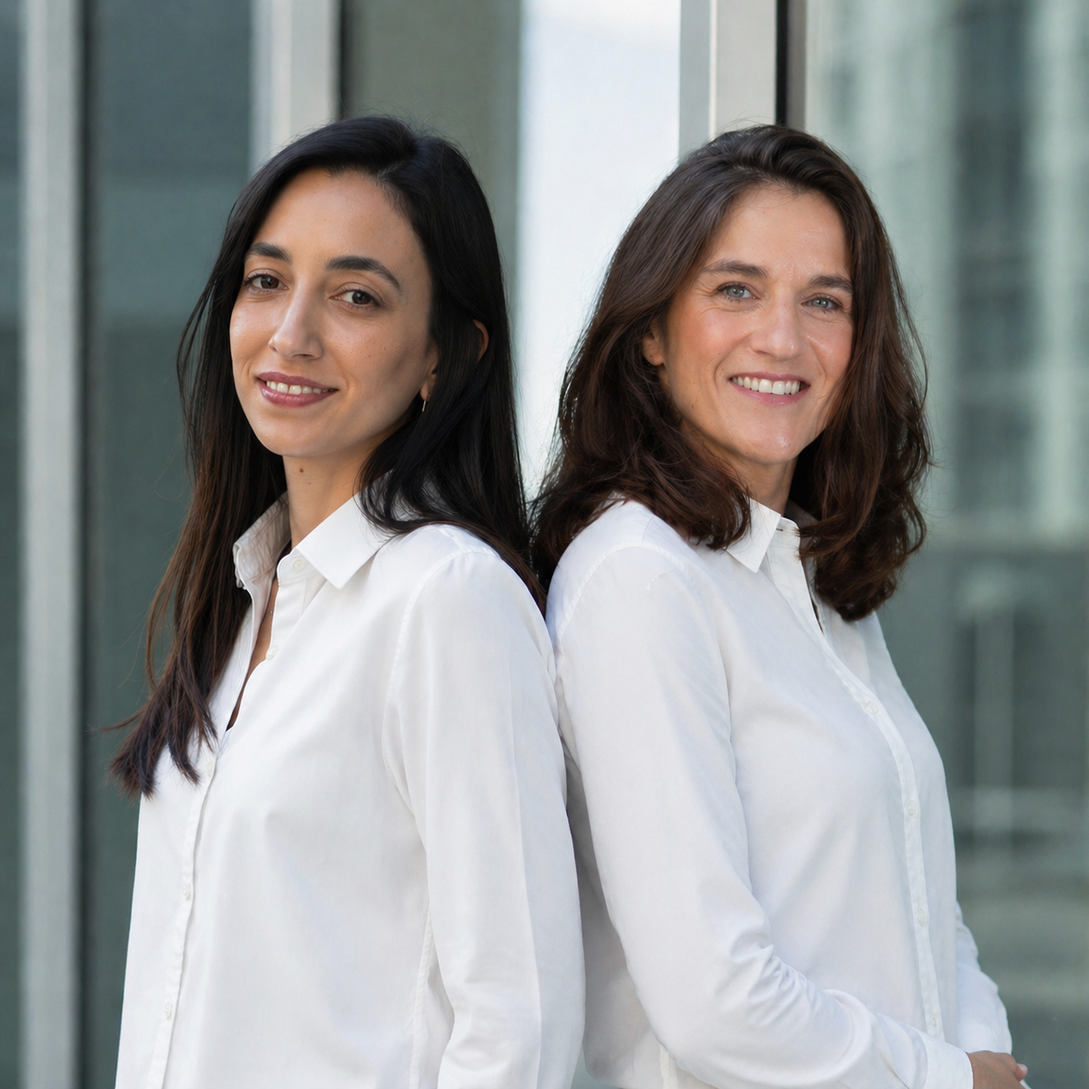
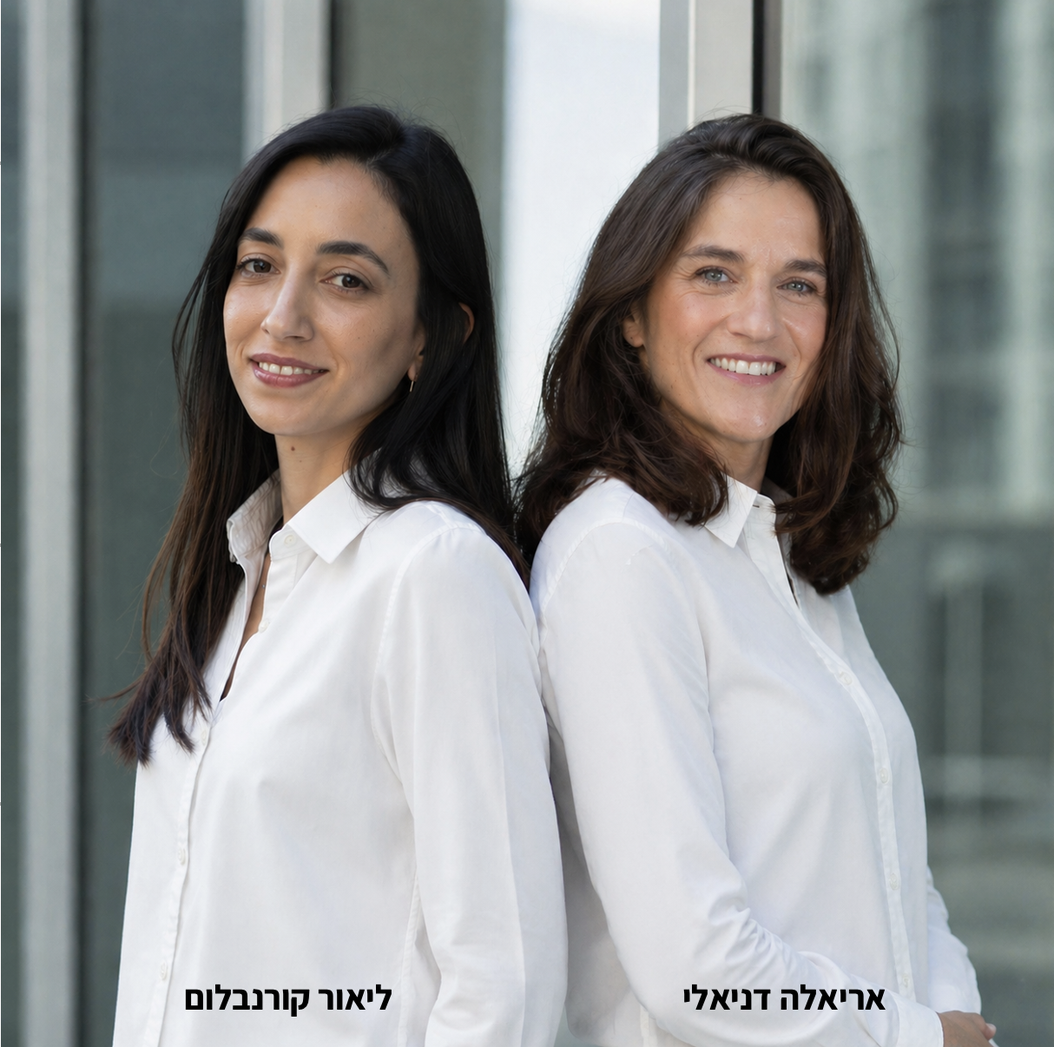
Simplify consulting section on homepage, add ai-experience.html detail page with process and team

diff --git a/ai-experience.html b/ai-experience.html
@@ -1,0 +1,248 @@
+<!DOCTYPE html>
+<html lang="he" dir="rtl">
+<head>
+<meta charset="UTF-8">
+<!-- Google tag (gtag.js) -->
+<script async src="https://www.googletagmanager.com/gtag/js?id=G-WF8EV8KE0R"></script>
+<script>
+  window.dataLayer = window.dataLayer || [];
+  function gtag(){dataLayer.push(arguments);}
+  gtag('js', new Date());
+  gtag('config', 'G-WF8EV8KE0R');
+</script>
+<meta name="viewport" content="width=device-width, initial-scale=1.0">
+<title>THE AI EXPERIENCE — שדרוג חווית לקוח ועובד | אריאלה דניאלי</title>
+<meta name="description" content="שירות ייעוצי לשדרוג חווית הלקוח והעובד באמצעות AI Agents — אפיון, פיתוח והטמעה.">
+<link rel="preconnect" href="https://fonts.googleapis.com">
+<link rel="preconnect" href="https://fonts.gstatic.com" crossorigin>
+<link href="https://fonts.googleapis.com/css2?family=Assistant:wght@300;400;700;800&display=swap" rel="stylesheet">
+<style>
+*,*::before,*::after{margin:0;padding:0;box-sizing:border-box}
+:root{
+  --bg:#080810;--bg-card:#0d0d1a;--bg-card2:#111128;
+  --pink:#FF2D9B;--orange:#FF8C00;--green:#25D366;
+  --white:#ffffff;--white60:rgba(255,255,255,.7);--white08:rgba(255,255,255,0.08);
+  --font:'Assistant',sans-serif;
+  --nav-h:72px;
+}
+html{scroll-behavior:smooth;overflow-x:hidden}
+body{font-family:var(--font);background:var(--bg);color:var(--white);direction:rtl;line-height:1.7;overflow-x:hidden}
+a{color:inherit;text-decoration:none}
+.grad{background:linear-gradient(135deg,#FF2D9B,#FF8C00);-webkit-background-clip:text;-webkit-text-fill-color:transparent;background-clip:text}
+.reveal{opacity:0;transform:translateY(50px);transition:opacity .8s cubic-bezier(.22,1,.36,1),transform .8s cubic-bezier(.22,1,.36,1)}
+.reveal.visible{opacity:1;transform:translateY(0)}
+.nav{position:fixed;top:0;right:0;left:0;z-index:1000;height:var(--nav-h);display:flex;align-items:center;justify-content:space-between;padding:0 clamp(20px,4vw,60px);transition:background .4s,box-shadow .4s}
+.nav.scrolled{background:rgba(8,8,16,.92);backdrop-filter:blur(18px);-webkit-backdrop-filter:blur(18px);box-shadow:0 2px 30px rgba(0,0,0,.4)}
+.nav-back{display:inline-flex;align-items:center;gap:8px;color:var(--white60);font-size:.9rem;font-weight:600;transition:color .3s}
+.nav-back:hover{color:#fff}
+.nav-back svg{transform:rotate(180deg)}
+.btn-wa{background:var(--green);color:var(--white);padding:14px 32px;border-radius:8px;font-weight:700;font-size:1rem;display:inline-flex;align-items:center;gap:8px;transition:transform .3s,box-shadow .3s;border:none;cursor:pointer}
+.btn-wa:hover{transform:scale(1.06);box-shadow:0 6px 28px rgba(37,211,102,.35)}
+.btn-outline{border:2px solid var(--pink);color:var(--pink);padding:12px 32px;border-radius:8px;font-weight:700;font-size:1rem;transition:all .3s;background:transparent;display:inline-block}
+.btn-outline:hover{background:var(--pink);color:#080810;box-shadow:0 0 18px rgba(255,45,155,.5);transform:scale(1.05)}
+
+/* HERO */
+.hero{min-height:75vh;display:flex;align-items:center;justify-content:center;text-align:center;position:relative;overflow:hidden;padding:calc(var(--nav-h) + 60px) clamp(20px,6vw,80px) 80px}
+.hero-grid{position:absolute;inset:0;background-image:radial-gradient(rgba(255,255,255,.05) 1px,transparent 1px);background-size:32px 32px;animation:gridFloat 20s linear infinite}
+@keyframes gridFloat{0%{background-position:0 0}100%{background-position:32px 32px}}
+.hero-glow{position:absolute;width:600px;height:600px;border-radius:50%;background:radial-gradient(circle,rgba(255,45,155,.12),transparent 70%);top:0;left:50%;transform:translateX(-50%);filter:blur(80px);pointer-events:none}
+.hero-content{position:relative;z-index:2;max-width:820px}
+.hero-badge{display:inline-block;background:rgba(255,45,155,.12);border:1px solid rgba(255,45,155,.3);color:var(--pink);padding:6px 20px;border-radius:50px;font-size:.85rem;font-weight:700;margin-bottom:24px;letter-spacing:1px}
+.hero-title{font-size:clamp(2.4rem,5.5vw,4.2rem);font-weight:900;line-height:1.15;margin-bottom:24px}
+.hero-sub{font-size:clamp(1rem,2vw,1.25rem);color:var(--white60);font-weight:300;margin-bottom:40px;max-width:650px;margin-left:auto;margin-right:auto}
+.stagger{opacity:0;transform:translateY(40px);animation:staggerIn .9s cubic-bezier(.22,1,.36,1) forwards}
+.stagger:nth-child(1){animation-delay:.2s}
+.stagger:nth-child(2){animation-delay:.4s}
+.stagger:nth-child(3){animation-delay:.6s}
+.stagger:nth-child(4){animation-delay:.8s}
+@keyframes staggerIn{to{opacity:1;transform:translateY(0)}}
+
+/* SECTIONS */
+.section{padding:70px clamp(20px,6vw,80px)}
+.container{max-width:960px;margin:0 auto}
+.section-title{font-size:clamp(1.8rem,3.5vw,2.6rem);font-weight:900;margin-bottom:32px}
+.section-sub{color:var(--white60);font-size:1.05rem;line-height:1.8;margin-bottom:40px;max-width:720px}
+
+/* ABOUT CARD */
+.about-card{background:var(--bg-card);border:1px solid var(--white08);border-radius:20px;padding:clamp(30px,5vw,50px);position:relative;overflow:hidden}
+.about-card::before{content:'';position:absolute;top:0;right:0;width:100%;height:3px;background:linear-gradient(90deg,var(--pink),var(--orange))}
+.about-card p{color:var(--white60);font-size:1.05rem;line-height:1.9}
+
+/* STEPS */
+.steps-wrap{display:grid;grid-template-columns:repeat(auto-fit,minmax(260px,1fr));gap:24px;margin-top:16px}
+.step-card{background:var(--bg-card);border:1px solid var(--white08);border-radius:16px;padding:36px 32px;transition:transform .3s,border-color .3s;position:relative;overflow:hidden}
+.step-card::before{content:'';position:absolute;top:0;right:0;width:100%;height:2px;background:linear-gradient(90deg,var(--pink),var(--orange));opacity:0;transition:opacity .3s}
+.step-card:hover{transform:translateY(-4px);border-color:rgba(255,45,155,.3)}
+.step-card:hover::before{opacity:1}
+.step-num{font-size:2.8rem;font-weight:900;background:linear-gradient(135deg,#FF2D9B,#FF8C00);-webkit-background-clip:text;-webkit-text-fill-color:transparent;background-clip:text;margin-bottom:14px;line-height:1}
+.step-card h4{font-size:1.15rem;font-weight:700;margin-bottom:10px;color:#fff}
+.step-card p{color:var(--white60);font-size:.95rem;line-height:1.7}
+.step-card ul{list-style:none;margin-top:10px}
+.step-card ul li{padding:6px 0;color:var(--white60);font-size:.93rem;display:flex;align-items:flex-start;gap:10px}
+.step-card ul li::before{content:'';width:6px;height:6px;border-radius:50%;background:var(--pink);flex-shrink:0;margin-top:8px}
+
+/* TEAM */
+.team-grid{display:grid;grid-template-columns:repeat(auto-fit,minmax(300px,1fr));gap:32px;margin-top:16px}
+.team-card{background:var(--bg-card);border:1px solid var(--white08);border-radius:20px;padding:36px 32px}
+.team-card h4{font-size:1.25rem;font-weight:800;margin-bottom:6px;color:#fff}
+.team-card .team-role{color:var(--pink);font-size:.9rem;font-weight:600;margin-bottom:16px;display:block}
+.team-card p{color:var(--white60);font-size:.95rem;line-height:1.8}
+
+/* CTA */
+.cta-section{text-align:center}
+.cta-section .section-title{margin-bottom:16px}
+.cta-section p{color:var(--white60);font-size:1.1rem;margin-bottom:32px}
+
+footer{text-align:center;padding:40px 20px;border-top:1px solid var(--white08);color:var(--white60);font-size:.85rem}
+.footer-social{display:flex;justify-content:center;gap:16px;margin-top:12px}
+.footer-social a{color:var(--white60);transition:color .3s}
+.footer-social a:hover{color:var(--white)}
+
+.back-top{position:fixed;bottom:24px;left:24px;width:44px;height:44px;border-radius:50%;background:var(--bg-card);border:1px solid var(--white08);display:flex;align-items:center;justify-content:center;cursor:pointer;transition:transform .3s,background .3s;z-index:100}
+.back-top:hover{transform:translateY(-3px);background:var(--pink)}
+
+/* WhatsApp float */
+.wa-float{position:fixed;bottom:24px;right:24px;width:56px;height:56px;background:var(--green);border-radius:50%;display:flex;align-items:center;justify-content:center;box-shadow:0 4px 20px rgba(37,211,102,.4);z-index:999;transition:transform .3s}
+.wa-float:hover{transform:scale(1.1)}
+
+@media(max-width:768px){
+  .hero{min-height:auto;padding-bottom:60px}
+  .steps-wrap{grid-template-columns:1fr}
+  .team-grid{grid-template-columns:1fr}
+}
+</style>
+</head>
+<body>
+
+<!-- NAVBAR -->
+<nav class="nav" id="nav">
+  <a href="index.html" class="nav-back">
+    <svg width="16" height="16" viewBox="0 0 24 24" fill="none" stroke="currentColor" stroke-width="2"><path d="M5 12h14M12 5l7 7-7 7"/></svg>
+    חזרה לאתר
+  </a>
+  <a href="https://wa.me/972523124326" class="btn-wa" style="padding:10px 20px;font-size:.9rem">
+    <svg width="16" height="16" viewBox="0 0 24 24" fill="currentColor"><path d="M17.472 14.382c-.297-.149-1.758-.867-2.03-.967-.273-.099-.471-.148-.67.15-.197.297-.767.966-.94 1.164-.173.199-.347.223-.644.075-.297-.15-1.255-.463-2.39-1.475-.883-.788-1.48-1.761-1.653-2.059-.173-.297-.018-.458.13-.606.134-.133.298-.347.446-.52.149-.174.198-.298.298-.497.099-.198.05-.371-.025-.52-.075-.149-.669-1.612-.916-2.207-.242-.579-.487-.5-.669-.51-.173-.008-.371-.01-.57-.01-.198 0-.52.074-.792.372-.272.297-1.04 1.016-1.04 2.479 0 1.462 1.065 2.875 1.213 3.074.149.198 2.096 3.2 5.077 4.487.709.306 1.262.489 1.694.625.712.227 1.36.195 1.871.118.571-.085 1.758-.719 2.006-1.413.248-.694.248-1.289.173-1.413-.074-.124-.272-.198-.57-.347z"/><path d="M12 0C5.373 0 0 5.373 0 12c0 2.11.546 4.093 1.504 5.818L0 24l6.335-1.66A11.95 11.95 0 0012 24c6.627 0 12-5.373 12-12S18.627 0 12 0zm0 21.82a9.8 9.8 0 01-5.006-1.37l-.36-.213-3.722.976.993-3.63-.235-.374A9.81 9.81 0 012.18 12C2.18 6.58 6.58 2.18 12 2.18S21.82 6.58 21.82 12 17.42 21.82 12 21.82z"/></svg>
+    בואו נדבר
+  </a>
+</nav>
+
+<!-- HERO -->
+<section class="hero">
+  <div class="hero-grid"></div>
+  <div class="hero-glow"></div>
+  <div class="hero-content">
+    <div class="hero-badge stagger">שירות</div>
+    <h1 class="hero-title stagger">THE AI EXPERIENCE<br><span class="grad">שדרוג חווית לקוח ועובד</span></h1>
+    <p class="hero-sub stagger">פתרונות מבוססי AI Agents לחווית לקוח ועובד מדורגת יותר — החל מאפיון ועד הטמעה מלאה בשטח</p>
+    <div class="stagger">
+      <a href="https://wa.me/972523124326" class="btn-wa" style="margin:0 auto">
+        <svg width="18" height="18" viewBox="0 0 24 24" fill="currentColor"><path d="M17.472 14.382c-.297-.149-1.758-.867-2.03-.967-.273-.099-.471-.148-.67.15-.197.297-.767.966-.94 1.164-.173.199-.347.223-.644.075-.297-.15-1.255-.463-2.39-1.475-.883-.788-1.48-1.761-1.653-2.059-.173-.297-.018-.458.13-.606.134-.133.298-.347.446-.52.149-.174.198-.298.298-.497.099-.198.05-.371-.025-.52-.075-.149-.669-1.612-.916-2.207-.242-.579-.487-.5-.669-.51-.173-.008-.371-.01-.57-.01-.198 0-.52.074-.792.372-.272.297-1.04 1.016-1.04 2.479 0 1.462 1.065 2.875 1.213 3.074.149.198 2.096 3.2 5.077 4.487.709.306 1.262.489 1.694.625.712.227 1.36.195 1.871.118.571-.085 1.758-.719 2.006-1.413.248-.694.248-1.289.173-1.413-.074-.124-.272-.198-.57-.347z"/><path d="M12 0C5.373 0 0 5.373 0 12c0 2.11.546 4.093 1.504 5.818L0 24l6.335-1.66A11.95 11.95 0 0012 24c6.627 0 12-5.373 12-12S18.627 0 12 0zm0 21.82a9.8 9.8 0 01-5.006-1.37l-.36-.213-3.722.976.993-3.63-.235-.374A9.81 9.81 0 012.18 12C2.18 6.58 6.58 2.18 12 2.18S21.82 6.58 21.82 12 17.42 21.82 12 21.82z"/></svg>
+        שלחו הודעה בוואטסאפ
+      </a>
+    </div>
+  </div>
+</section>
+
+<!-- ABOUT -->
+<section class="section" style="background:rgba(255,255,255,.02)">
+  <div class="container">
+    <h2 class="section-title grad reveal">אודות השירות</h2>
+    <div class="about-card reveal">
+      <p>ארגונים רבים יודעים שבינה מלאכותית יכולה לשנות את אופן העבודה שלהם — אבל לא יודעים מאיפה להתחיל, ומה בדיוק כדאי לשנות.</p>
+      <br>
+      <p>THE AI EXPERIENCE הוא שירות ייעוצי המתמקד בפתרונות מבוססי סוכנים (AI Agents) — הדור הבא של אוטומציה חכמה. אנחנו עובדות עם ארגונים על שני מישורים במקביל: החוויה החיצונית — המוצרים והשירותים שהארגון מספק ללקוחותיו, והיכולת הפנימית — תהליכי העבודה של הצוותים מבפנים.</p>
+      <br>
+      <p>בשני המקרים, אנחנו מזהות היכן סוכני AI יכולים להחליף עבודה ידנית, לשפר את איכות השירות ולייצר ערך עסקי מדיד — הן עבור הלקוח הקצה והן עבור העובדים בשטח.</p>
+    </div>
+  </div>
+</section>
+
+<!-- PROCESS -->
+<section class="section">
+  <div class="container">
+    <h2 class="section-title grad reveal">תהליך העבודה</h2>
+    <div class="steps-wrap">
+      <div class="step-card reveal">
+        <div class="step-num">01</div>
+        <h4>אפיון וזיהוי הזדמנויות</h4>
+        <p>נבחן יחד את המוצרים, השירותים ותהליכי העבודה הקיימים בארגון. נאתר את נקודות הכאב — המקומות שבהם זמן, כסף ואנרגיה הולכים לאיבוד — ונגדיר בדיוק איפה סוכני AI יכולים לייצר את ההשפעה הגדולה ביותר.</p>
+      </div>
+      <div class="step-card reveal">
+        <div class="step-num">02</div>
+        <h4>פיתוח פתרונות מבוססי AI Agents</h4>
+        <ul>
+          <li>סקירת עולם — ניתוח מוצרים ושירותים דומים שכבר משלבים סוכני AI בתעשייה</li>
+          <li>Ideation — גיבוש רעיונות ופתרונות יצירתיים המותאמים לארגון הספציפי</li>
+          <li>עיצוב מסע חדש — בניית מסע לקוח ו/או עובד חדש הכולל שכבת AI Agents פעילה</li>
+        </ul>
+      </div>
+      <div class="step-card reveal">
+        <div class="step-num">03</div>
+        <h4>הטמעה, ליווי ומדידה</h4>
+        <p>ליווי מלא של תהליך ההטמעה הטכנולוגית, הגדרת יעדים ו-KPIs להצלחה — כדי להבטיח שהשינוי לא נשאר על הנייר אלא מייצר תוצאות מדידות לאורך זמן.</p>
+      </div>
+    </div>
+  </div>
+</section>
+
+<!-- WHO WE ARE -->
+<section class="section" style="background:rgba(255,255,255,.02)">
+  <div class="container">
+    <h2 class="section-title grad reveal">מי אנחנו</h2>
+    <div class="team-grid">
+      <div class="team-card reveal">
+        <h4>ליאור קורנבלום</h4>
+        <span class="team-role">מייסדת ומנכ"לית AIforAll</span>
+        <p>15 שנות ניסיון בבניית מוצרי AI והובלת תהליכי הטמעה בארגונים. לשעבר סמנכ"לית מוצר ב-AI Startup ובעלת ניסיון רחב עם ארגונים פיננסיים גדולים. מרצה בטכניון, מנטורית של Google for Startups ו-LinkedIn Top AI Voice.</p>
+        <br>
+        <p>ליאור עוזרת לארגונים לעבור מסקרנות לאסטרטגיה אמיתית — ומ-AI כנושא שיחה ל-AI כיכולת ארגונית.</p>
+      </div>
+      <div class="team-card reveal">
+        <h4>אריאלה דניאלי</h4>
+        <span class="team-role">יועצת חדשנות ומרצה</span>
+        <p>יועצת בתחומי בינה מלאכותית, חווית לקוח ומיתוג אישי בארגונים. כמנהלת החדשנות של קבוצת עזריאלי וכמנהלת הדיגיטל של תנובה, הובילה מהלכים רחבי היקף שביססו חיבור בין חשיבה עסקית, טכנולוגיה וצרכי לקוח.</p>
+        <br>
+        <p>מתנדבת בעמותת ASUR שבה מלמדת נשות קבע כיצד לבנות מיתוג אישי באמצעות GenAI על מנת להשתלב בשוק העבודה.</p>
+      </div>
+    </div>
+  </div>
+</section>
+
+<!-- CTA -->
+<section class="section cta-section">
+  <div class="container">
+    <h2 class="section-title grad reveal">רוצים לשמוע עוד?</h2>
+    <p class="reveal">דברו איתנו ונתחיל לחשוב יחד על הצעד הבא</p>
+    <a href="https://wa.me/972523124326" class="btn-wa reveal">
+      <svg width="18" height="18" viewBox="0 0 24 24" fill="currentColor"><path d="M17.472 14.382c-.297-.149-1.758-.867-2.03-.967-.273-.099-.471-.148-.67.15-.197.297-.767.966-.94 1.164-.173.199-.347.223-.644.075-.297-.15-1.255-.463-2.39-1.475-.883-.788-1.48-1.761-1.653-2.059-.173-.297-.018-.458.13-.606.134-.133.298-.347.446-.52.149-.174.198-.298.298-.497.099-.198.05-.371-.025-.52-.075-.149-.669-1.612-.916-2.207-.242-.579-.487-.5-.669-.51-.173-.008-.371-.01-.57-.01-.198 0-.52.074-.792.372-.272.297-1.04 1.016-1.04 2.479 0 1.462 1.065 2.875 1.213 3.074.149.198 2.096 3.2 5.077 4.487.709.306 1.262.489 1.694.625.712.227 1.36.195 1.871.118.571-.085 1.758-.719 2.006-1.413.248-.694.248-1.289.173-1.413-.074-.124-.272-.198-.57-.347z"/><path d="M12 0C5.373 0 0 5.373 0 12c0 2.11.546 4.093 1.504 5.818L0 24l6.335-1.66A11.95 11.95 0 0012 24c6.627 0 12-5.373 12-12S18.627 0 12 0zm0 21.82a9.8 9.8 0 01-5.006-1.37l-.36-.213-3.722.976.993-3.63-.235-.374A9.81 9.81 0 012.18 12C2.18 6.58 6.58 2.18 12 2.18S21.82 6.58 21.82 12 17.42 21.82 12 21.82z"/></svg>
+      שלחו הודעה בוואטסאפ
+    </a>
+  </div>
+</section>
+
+<!-- FOOTER -->
+<footer>
+  <p>&copy; 2026 אריאלה דניאלי. כל הזכויות שמורות.</p>
+  <div class="footer-social">
+    <a href="https://www.instagram.com/ariellita" target="_blank" aria-label="Instagram"><svg viewBox="0 0 24 24" fill="currentColor" width="20" height="20"><path d="M12 2.163c3.204 0 3.584.012 4.85.07 3.252.148 4.771 1.691 4.919 4.919.058 1.265.069 1.645.069 4.849 0 3.205-.012 3.584-.069 4.849-.149 3.225-1.664 4.771-4.919 4.919-1.266.058-1.644.07-4.85.07-3.204 0-3.584-.012-4.849-.07-3.26-.149-4.771-1.699-4.919-4.92-.058-1.265-.07-1.644-.07-4.849 0-3.204.013-3.583.07-4.849.149-3.227 1.664-4.771 4.919-4.919 1.266-.057 1.645-.069 4.849-.069zM12 0C8.741 0 8.333.014 7.053.072 2.695.272.273 2.69.073 7.052.014 8.333 0 8.741 0 12c0 3.259.014 3.668.072 4.948.2 4.358 2.618 6.78 6.98 6.98C8.333 23.986 8.741 24 12 24c3.259 0 3.668-.014 4.948-.072 4.354-.2 6.782-2.618 6.979-6.98.059-1.28.073-1.689.073-4.948 0-3.259-.014-3.667-.072-4.947-.196-4.354-2.617-6.78-6.979-6.98C15.668.014 15.259 0 12 0zm0 5.838a6.162 6.162 0 100 12.324 6.162 6.162 0 000-12.324zM12 16a4 4 0 110-8 4 4 0 010 8zm6.406-11.845a1.44 1.44 0 100 2.881 1.44 1.44 0 000-2.881z"/></svg></a>
+    <a href="https://www.linkedin.com/in/ariella-danielli" target="_blank" aria-label="LinkedIn"><svg viewBox="0 0 24 24" fill="currentColor" width="20" height="20"><path d="M20.447 20.452h-3.554v-5.569c0-1.328-.027-3.037-1.852-3.037-1.853 0-2.136 1.445-2.136 2.939v5.667H9.351V9h3.414v1.561h.046c.477-.9 1.637-1.85 3.37-1.85 3.601 0 4.267 2.37 4.267 5.455v6.286zM5.337 7.433a2.062 2.062 0 01-2.063-2.065 2.064 2.064 0 112.063 2.065zm1.782 13.019H3.555V9h3.564v11.452zM22.225 0H1.771C.792 0 0 .774 0 1.729v20.542C0 23.227.792 24 1.771 24h20.451C23.2 24 24 23.227 24 22.271V1.729C24 .774 23.2 0 22.222 0h.003z"/></svg></a>
+  </div>
+</footer>
+
+<div class="back-top" onclick="window.scrollTo({top:0,behavior:'smooth'})" aria-label="חזרה למעלה">
+  <svg width="18" height="18" viewBox="0 0 24 24" fill="none" stroke="currentColor" stroke-width="2"><path d="M12 19V5M5 12l7-7 7 7"/></svg>
+</div>
+
+<a href="https://wa.me/972523124326" class="wa-float" aria-label="WhatsApp">
+  <svg width="26" height="26" viewBox="0 0 24 24" fill="white"><path d="M17.472 14.382c-.297-.149-1.758-.867-2.03-.967-.273-.099-.471-.148-.67.15-.197.297-.767.966-.94 1.164-.173.199-.347.223-.644.075-.297-.15-1.255-.463-2.39-1.475-.883-.788-1.48-1.761-1.653-2.059-.173-.297-.018-.458.13-.606.134-.133.298-.347.446-.52.149-.174.198-.298.298-.497.099-.198.05-.371-.025-.52-.075-.149-.669-1.612-.916-2.207-.242-.579-.487-.5-.669-.51-.173-.008-.371-.01-.57-.01-.198 0-.52.074-.792.372-.272.297-1.04 1.016-1.04 2.479 0 1.462 1.065 2.875 1.213 3.074.149.198 2.096 3.2 5.077 4.487.709.306 1.262.489 1.694.625.712.227 1.36.195 1.871.118.571-.085 1.758-.719 2.006-1.413.248-.694.248-1.289.173-1.413-.074-.124-.272-.198-.57-.347z"/><path d="M12 0C5.373 0 0 5.373 0 12c0 2.11.546 4.093 1.504 5.818L0 24l6.335-1.66A11.95 11.95 0 0012 24c6.627 0 12-5.373 12-12S18.627 0 12 0zm0 21.82a9.8 9.8 0 01-5.006-1.37l-.36-.213-3.722.976.993-3.63-.235-.374A9.81 9.81 0 012.18 12C2.18 6.58 6.58 2.18 12 2.18S21.82 6.58 21.82 12 17.42 21.82 12 21.82z"/></svg>
+</a>
+
+<script>
+const nav=document.getElementById('nav');
+window.addEventListener('scroll',()=>{nav.classList.toggle('scrolled',window.scrollY>60)},{passive:true});
+const reveals=document.querySelectorAll('.reveal');
+const revealObs=new IntersectionObserver(e=>{e.forEach(el=>{if(el.isIntersecting){el.target.classList.add('visible');revealObs.unobserve(el.target)}})},{threshold:.12,rootMargin:'0px 0px -40px 0px'});
+reveals.forEach(el=>revealObs.observe(el));
+</script>
+</body>
+</html>

diff --git a/index.html b/index.html
@@ -404,22 +404,8 @@ footer p{color:var(--white60);font-size:.85rem}
       <div class="ai-experience-content" style="flex:1;min-width:280px">
         <h3 style="font-size:1.6rem;font-weight:700;margin-bottom:12px;color:#fff">THE AI EXPERIENCE</h3>
         <p style="color:rgba(255,255,255,.75);font-size:1rem;line-height:1.7;margin-bottom:20px">שדרוג חווית לקוח ועובד מבוססת בינה מלאכותית</p>
-        <p style="color:rgba(255,255,255,.7);font-size:.95rem;line-height:1.75;margin-bottom:28px">ארגונים רבים יודעים שבינה מלאכותית יכולה לשנות את אופן העבודה שלהם — אבל לא יודעים מאיפה להתחיל, ומה בדיוק כדאי לשנות. THE AI EXPERIENCE הוא שירות ייעוצי המתמקד בפתרונות מבוססי סוכנים (AI Agents) — הדור הבא של אוטומציה חכמה. אנחנו עובדים עם ארגונים על שני מישורים במקביל: החוויה החיצונית — המוצרים והשירותים שהארגון מספק ללקוחותיו, והיכולת הפנימית — תהליכי העבודה של הצוותים מבפנים.</p>
-        <div style="display:flex;flex-direction:column;gap:14px;margin-bottom:30px">
-          <div style="display:flex;gap:12px;align-items:flex-start">
-            <span style="color:#FF2D9B;font-weight:700;font-size:1rem;flex-shrink:0">01</span>
-            <p style="color:rgba(255,255,255,.75);font-size:.93rem;line-height:1.6;margin:0"><strong style="color:#fff">אפיון וזיהוי הזדמנויות</strong> — נבחן את המוצרים, השירותים ותהליכי העבודה הקיימים ונאתר היכן AI Agents יכולים לייצר את ההשפעה הגדולה ביותר</p>
-          </div>
-          <div style="display:flex;gap:12px;align-items:flex-start">
-            <span style="color:#FF2D9B;font-weight:700;font-size:1rem;flex-shrink:0">02</span>
-            <p style="color:rgba(255,255,255,.75);font-size:.93rem;line-height:1.6;margin:0"><strong style="color:#fff">פיתוח פתרונות מבוססי AI Agents</strong> — סקירת עולם, גיבוש רעיונות ועיצוב מסע לקוח ועובד חדש הכולל שכבת AI Agents פעילה</p>
-          </div>
-          <div style="display:flex;gap:12px;align-items:flex-start">
-            <span style="color:#FF2D9B;font-weight:700;font-size:1rem;flex-shrink:0">03</span>
-            <p style="color:rgba(255,255,255,.75);font-size:.93rem;line-height:1.6;margin:0"><strong style="color:#fff">הטמעה, ליווי ומדידה</strong> — ליווי מלא של תהליך ההטמעה הטכנולוגית, הגדרת יעדים ו-KPIs להצלחה</p>
-          </div>
-        </div>
-        <a href="contact.html" class="card-btn" style="display:inline-block">לפרטים נוספים</a>
+        <p style="color:rgba(255,255,255,.7);font-size:.95rem;line-height:1.75;margin-bottom:28px">ארגונים רבים יודעים שבינה מלאכותית יכולה לשנות את אופן העבודה שלהם — אבל לא יודעים מאיפה להתחיל, ומה בדיוק כדאי לשנות. THE AI EXPERIENCE הוא שירות ייעוצי המתמקד בפתרונות מבוססי סוכנים (AI Agents) — הדור הבא של אוטומציה חכמה. אנחנו עובדות עם ארגונים על שני מישורים במקביל: החוויה החיצונית — המוצרים והשירותים שהארגון מספק ללקוחותיו, והיכולת הפנימית — תהליכי העבודה של הצוותים מבפנים. בשני המקרים, אנחנו מזהות היכן סוכני AI יכולים להחליף עבודה ידנית, לשפר את איכות השירות ולייצר ערך עסקי מדיד — הן עבור הלקוח הקצה והן עבור העובדים בשטח.</p>
+        <a href="ai-experience.html" class="card-btn" style="display:inline-block">לפרטים נוספים</a>
       </div>
     </div>
   </div>
